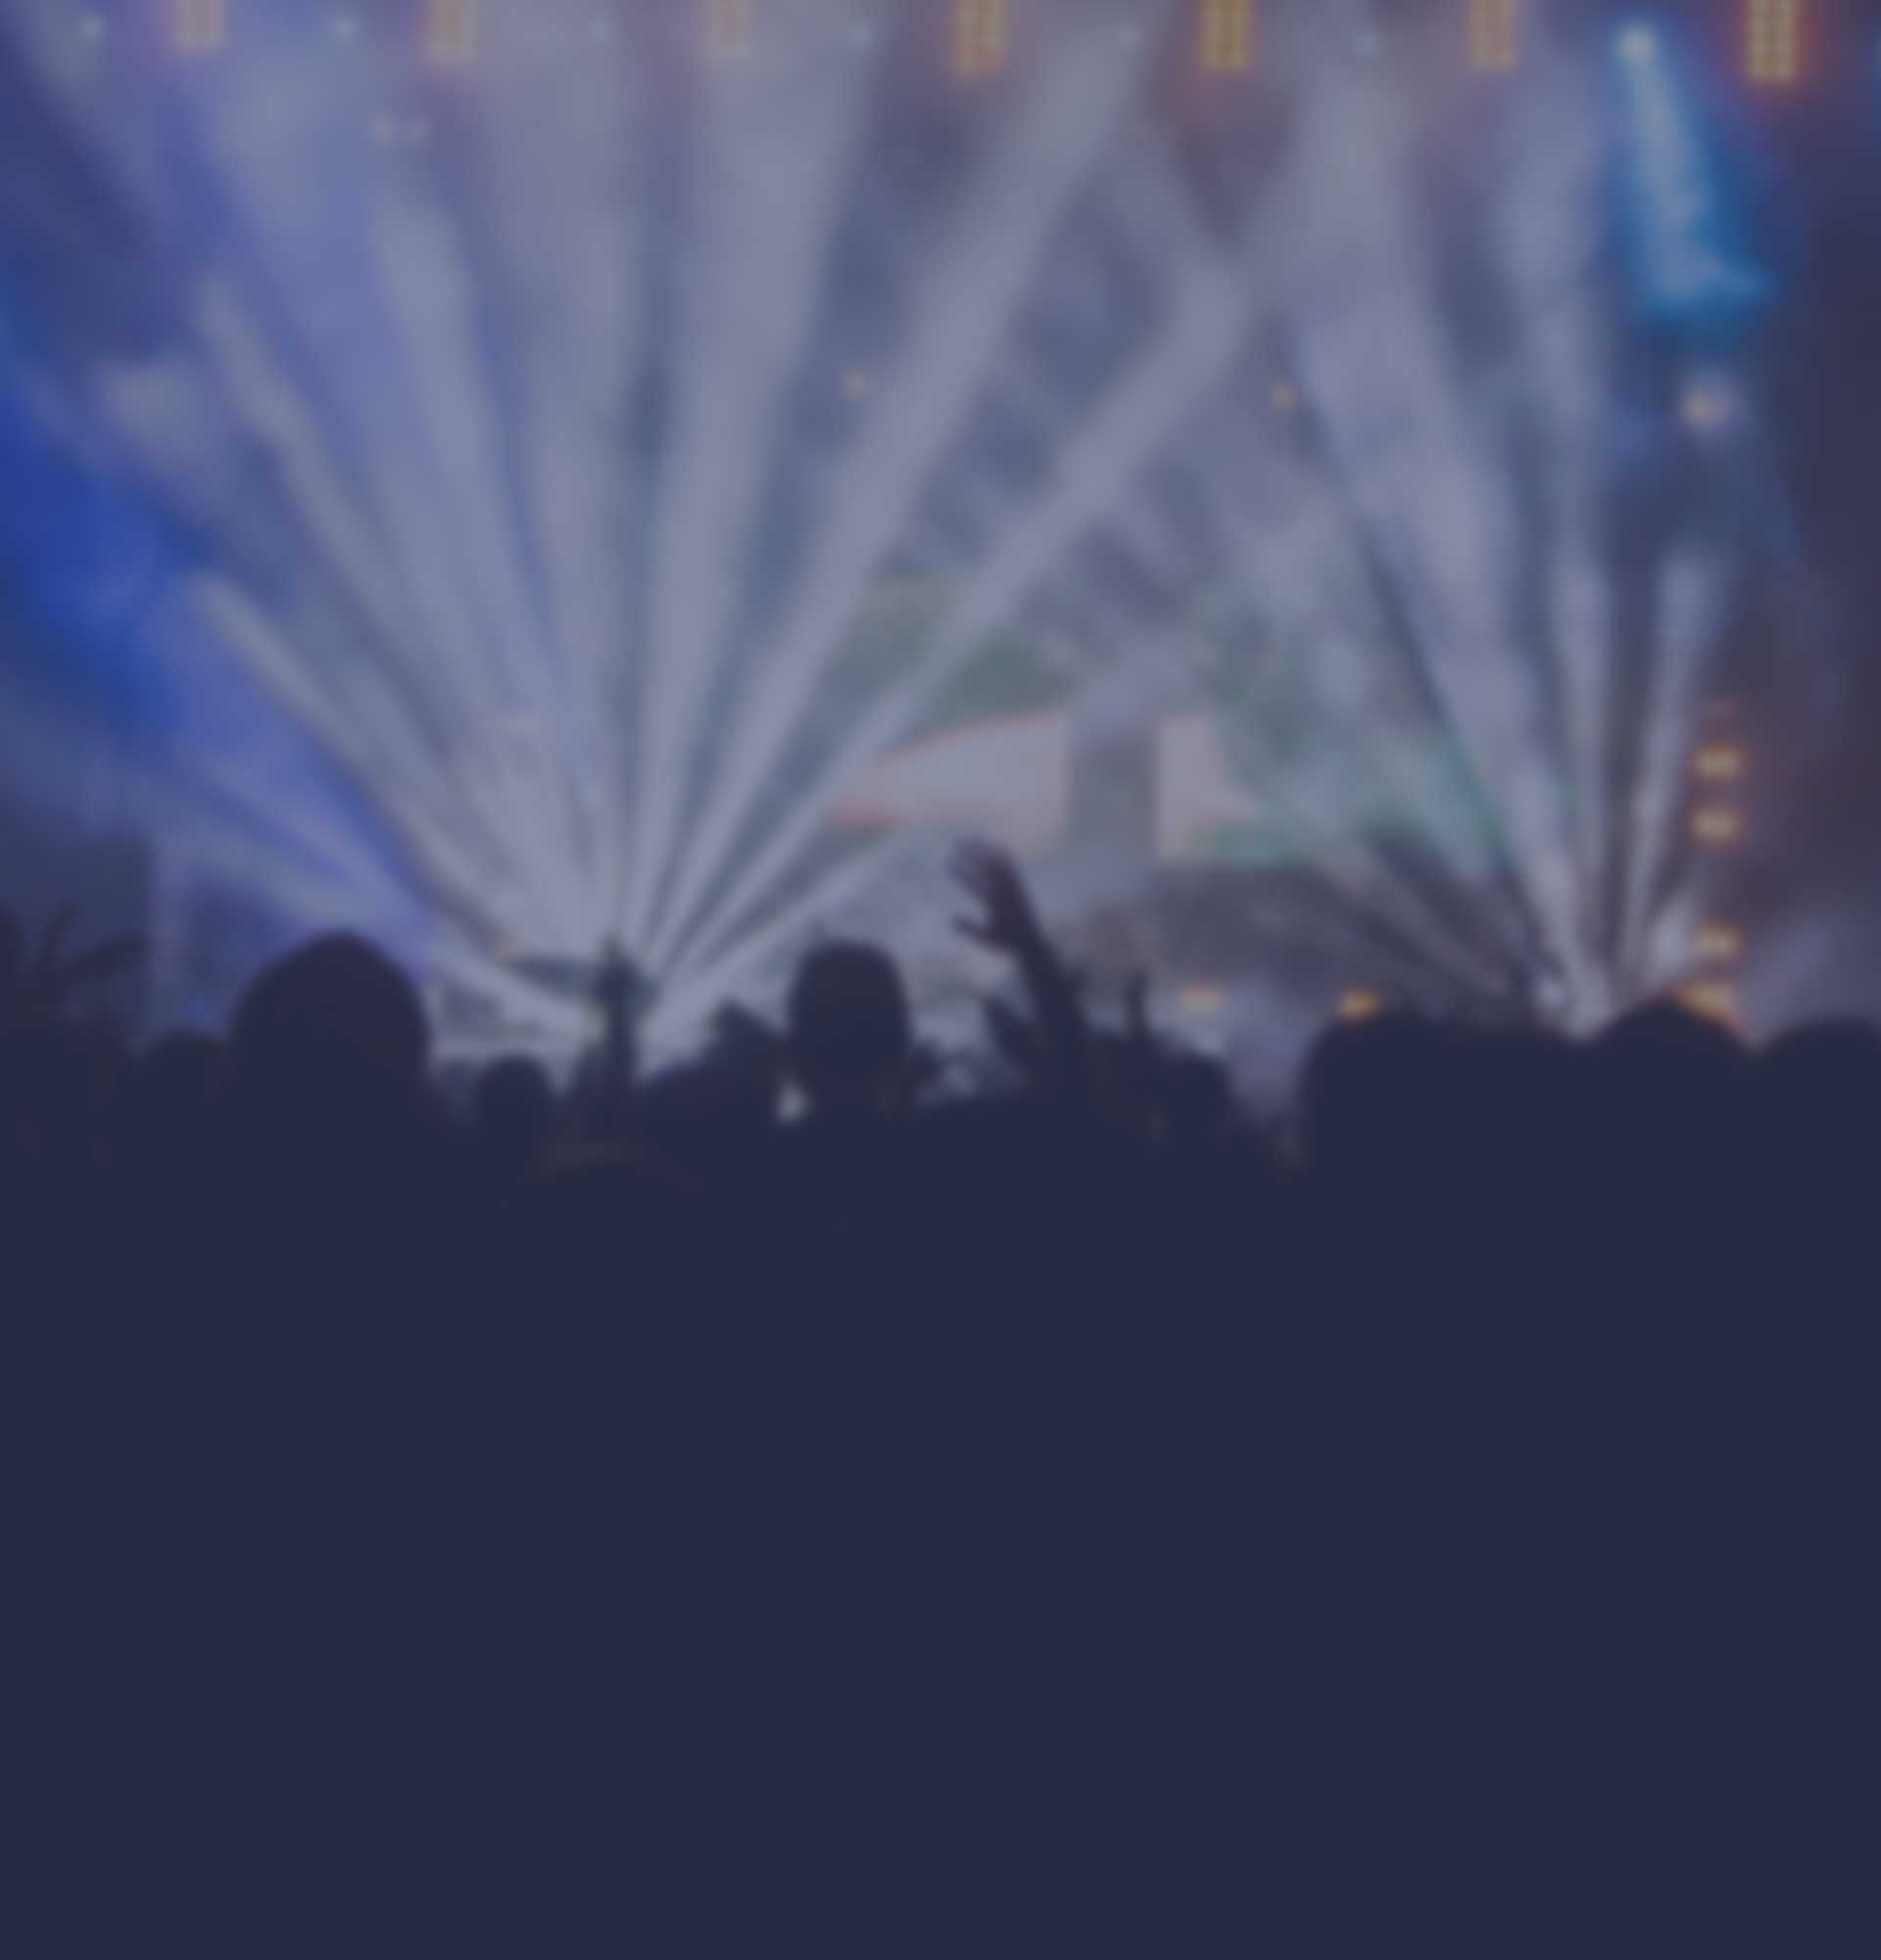
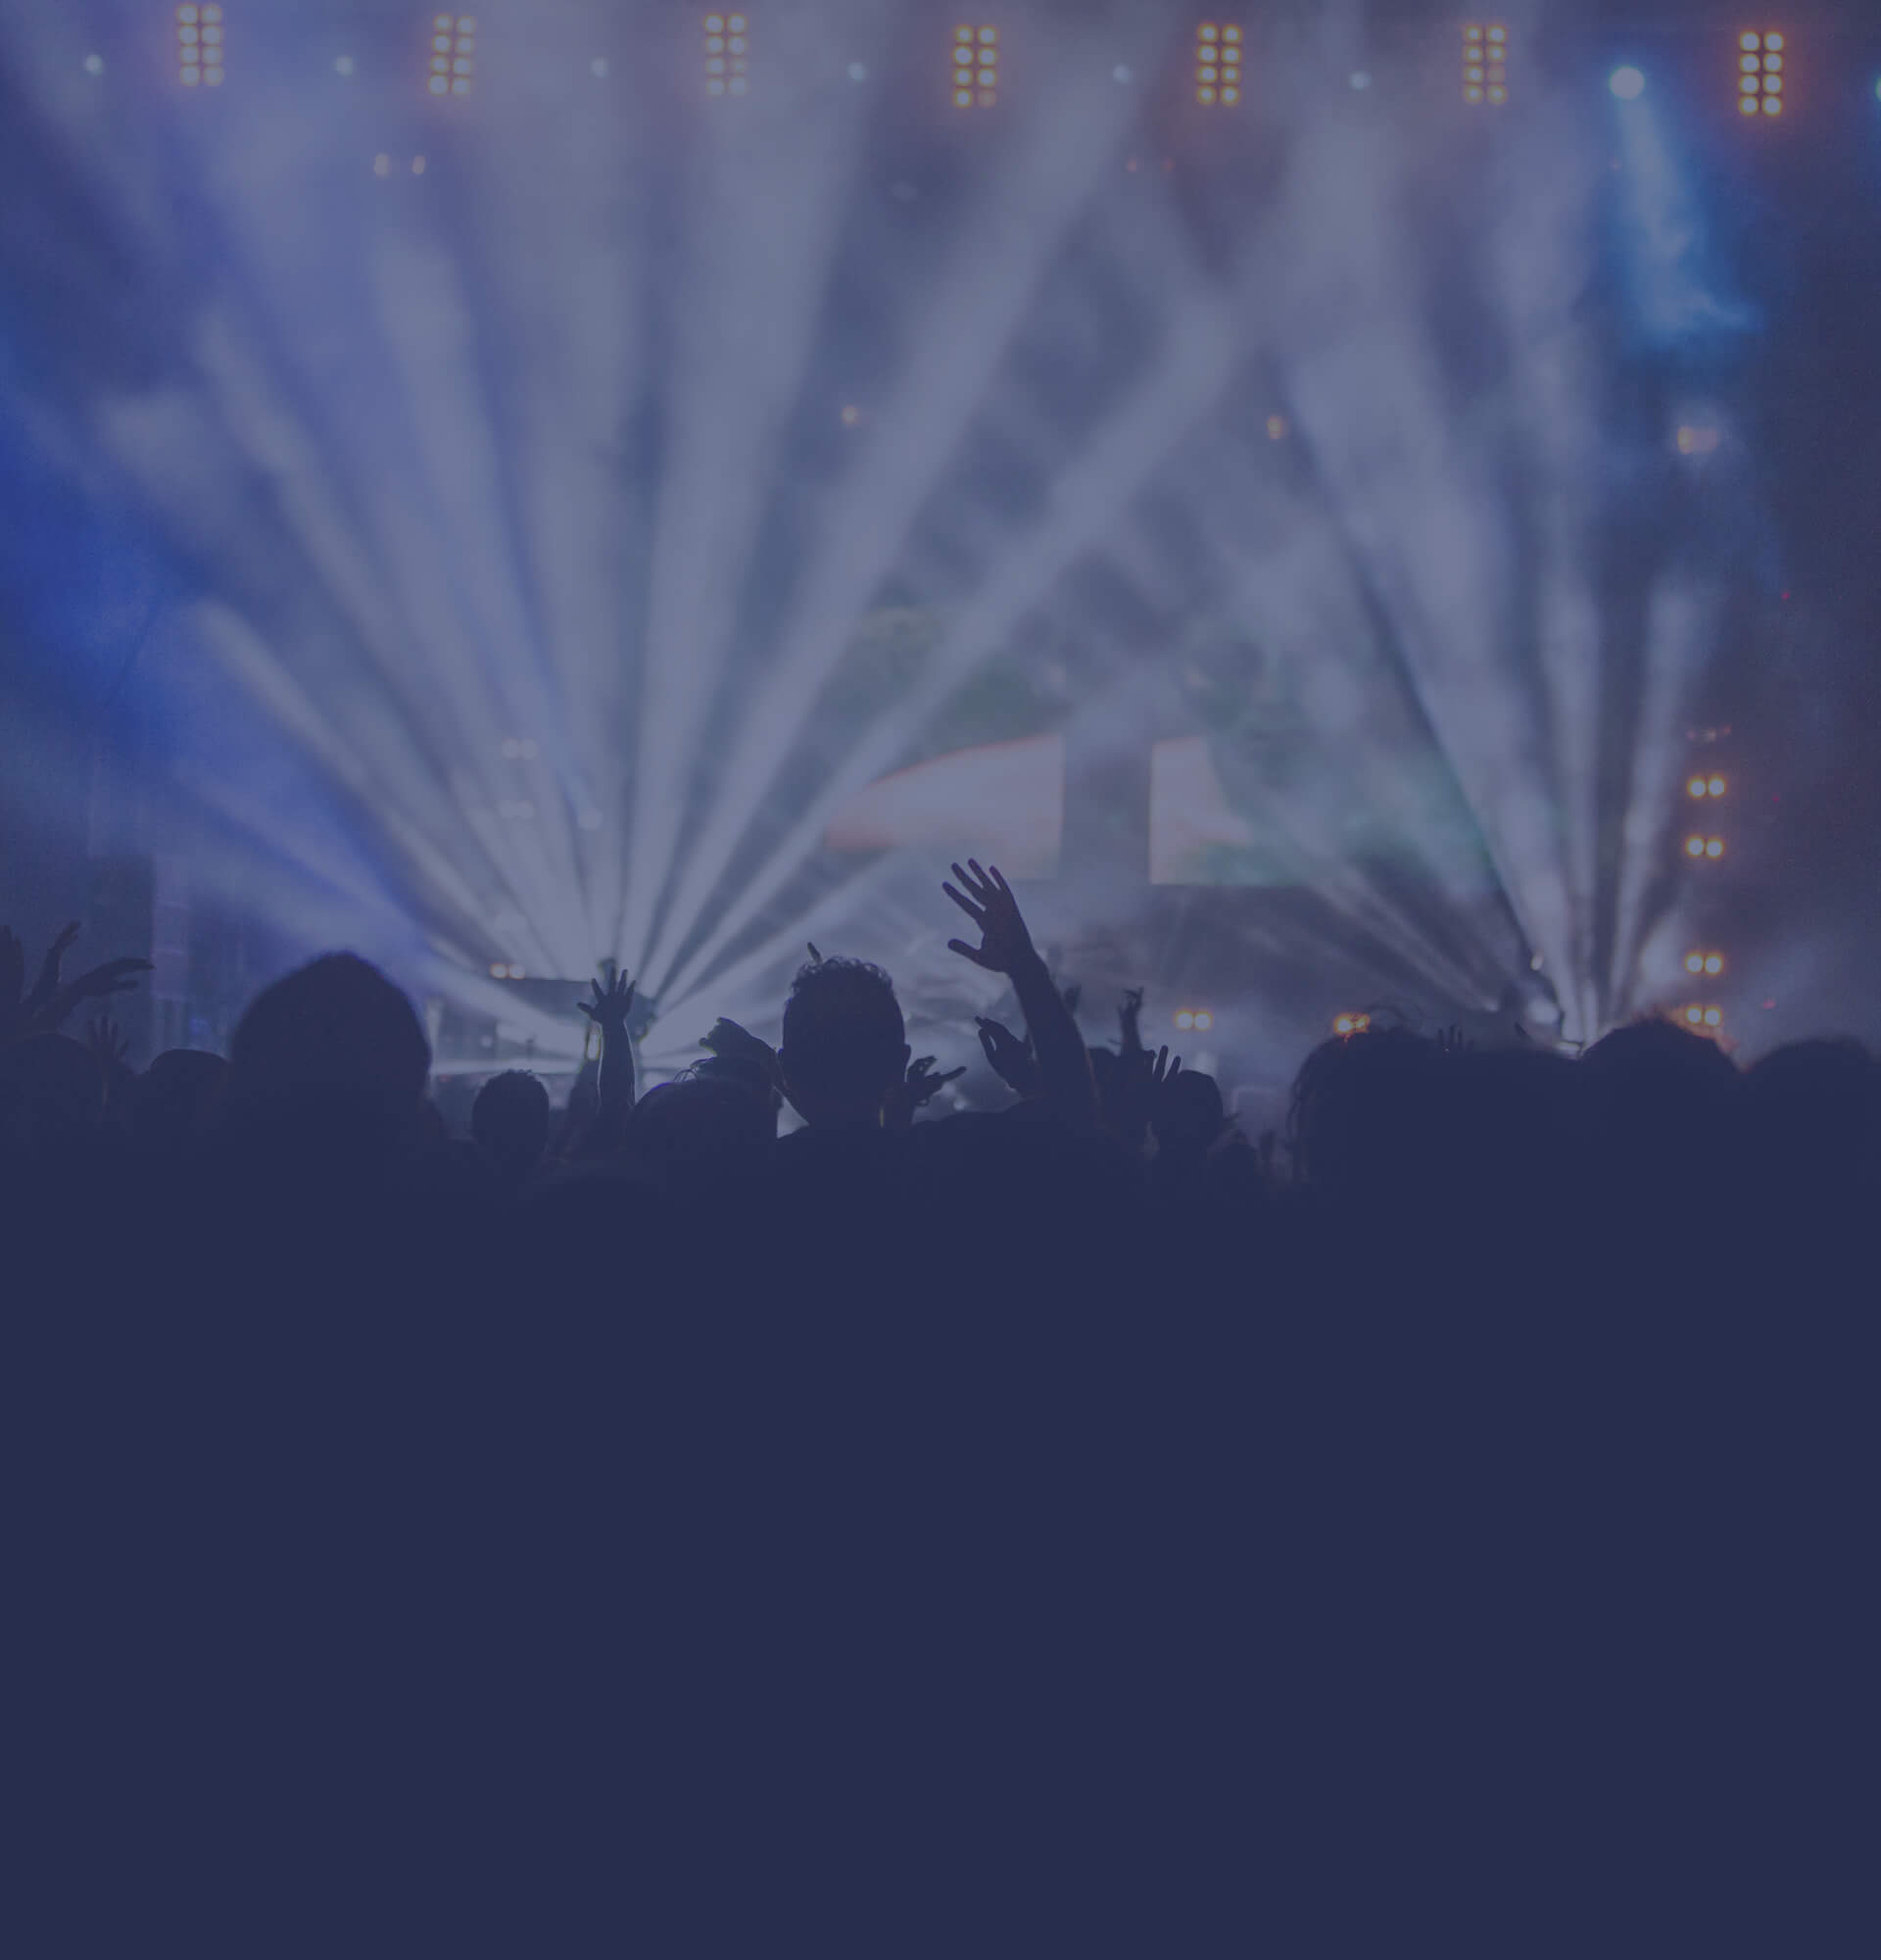
Progressing

diff --git a/proyecto/index.html b/proyecto/index.html
@@ -11,15 +11,6 @@
     <title>Hardcore Nation</title>
 </head>
 <body>
-    <div id="fb-root"></div>
-    <script>(function(d, s, id) {
-      var js, fjs = d.getElementsByTagName(s)[0];
-      if (d.getElementById(id)) return;
-      js = d.createElement(s); js.id = id;
-      js.src = "https://connect.facebook.net/es_ES/sdk.js#xfbml=1&version=v2.8";
-      fjs.parentNode.insertBefore(js, fjs);
-    }(document, 'script', 'facebook-jssdk'));</script>
-
     <header>
         <div class="container">
             <nav>

diff --git a/proyecto/css/main.css b/proyecto/css/main.css
@@ -9,6 +9,7 @@ body {
     background-repeat: no-repeat;
     background-attachment: fixed;
     background-position: top;
+    background-size: 100%;
     font-family: "Open Sans", sans-serif;
 }
 
